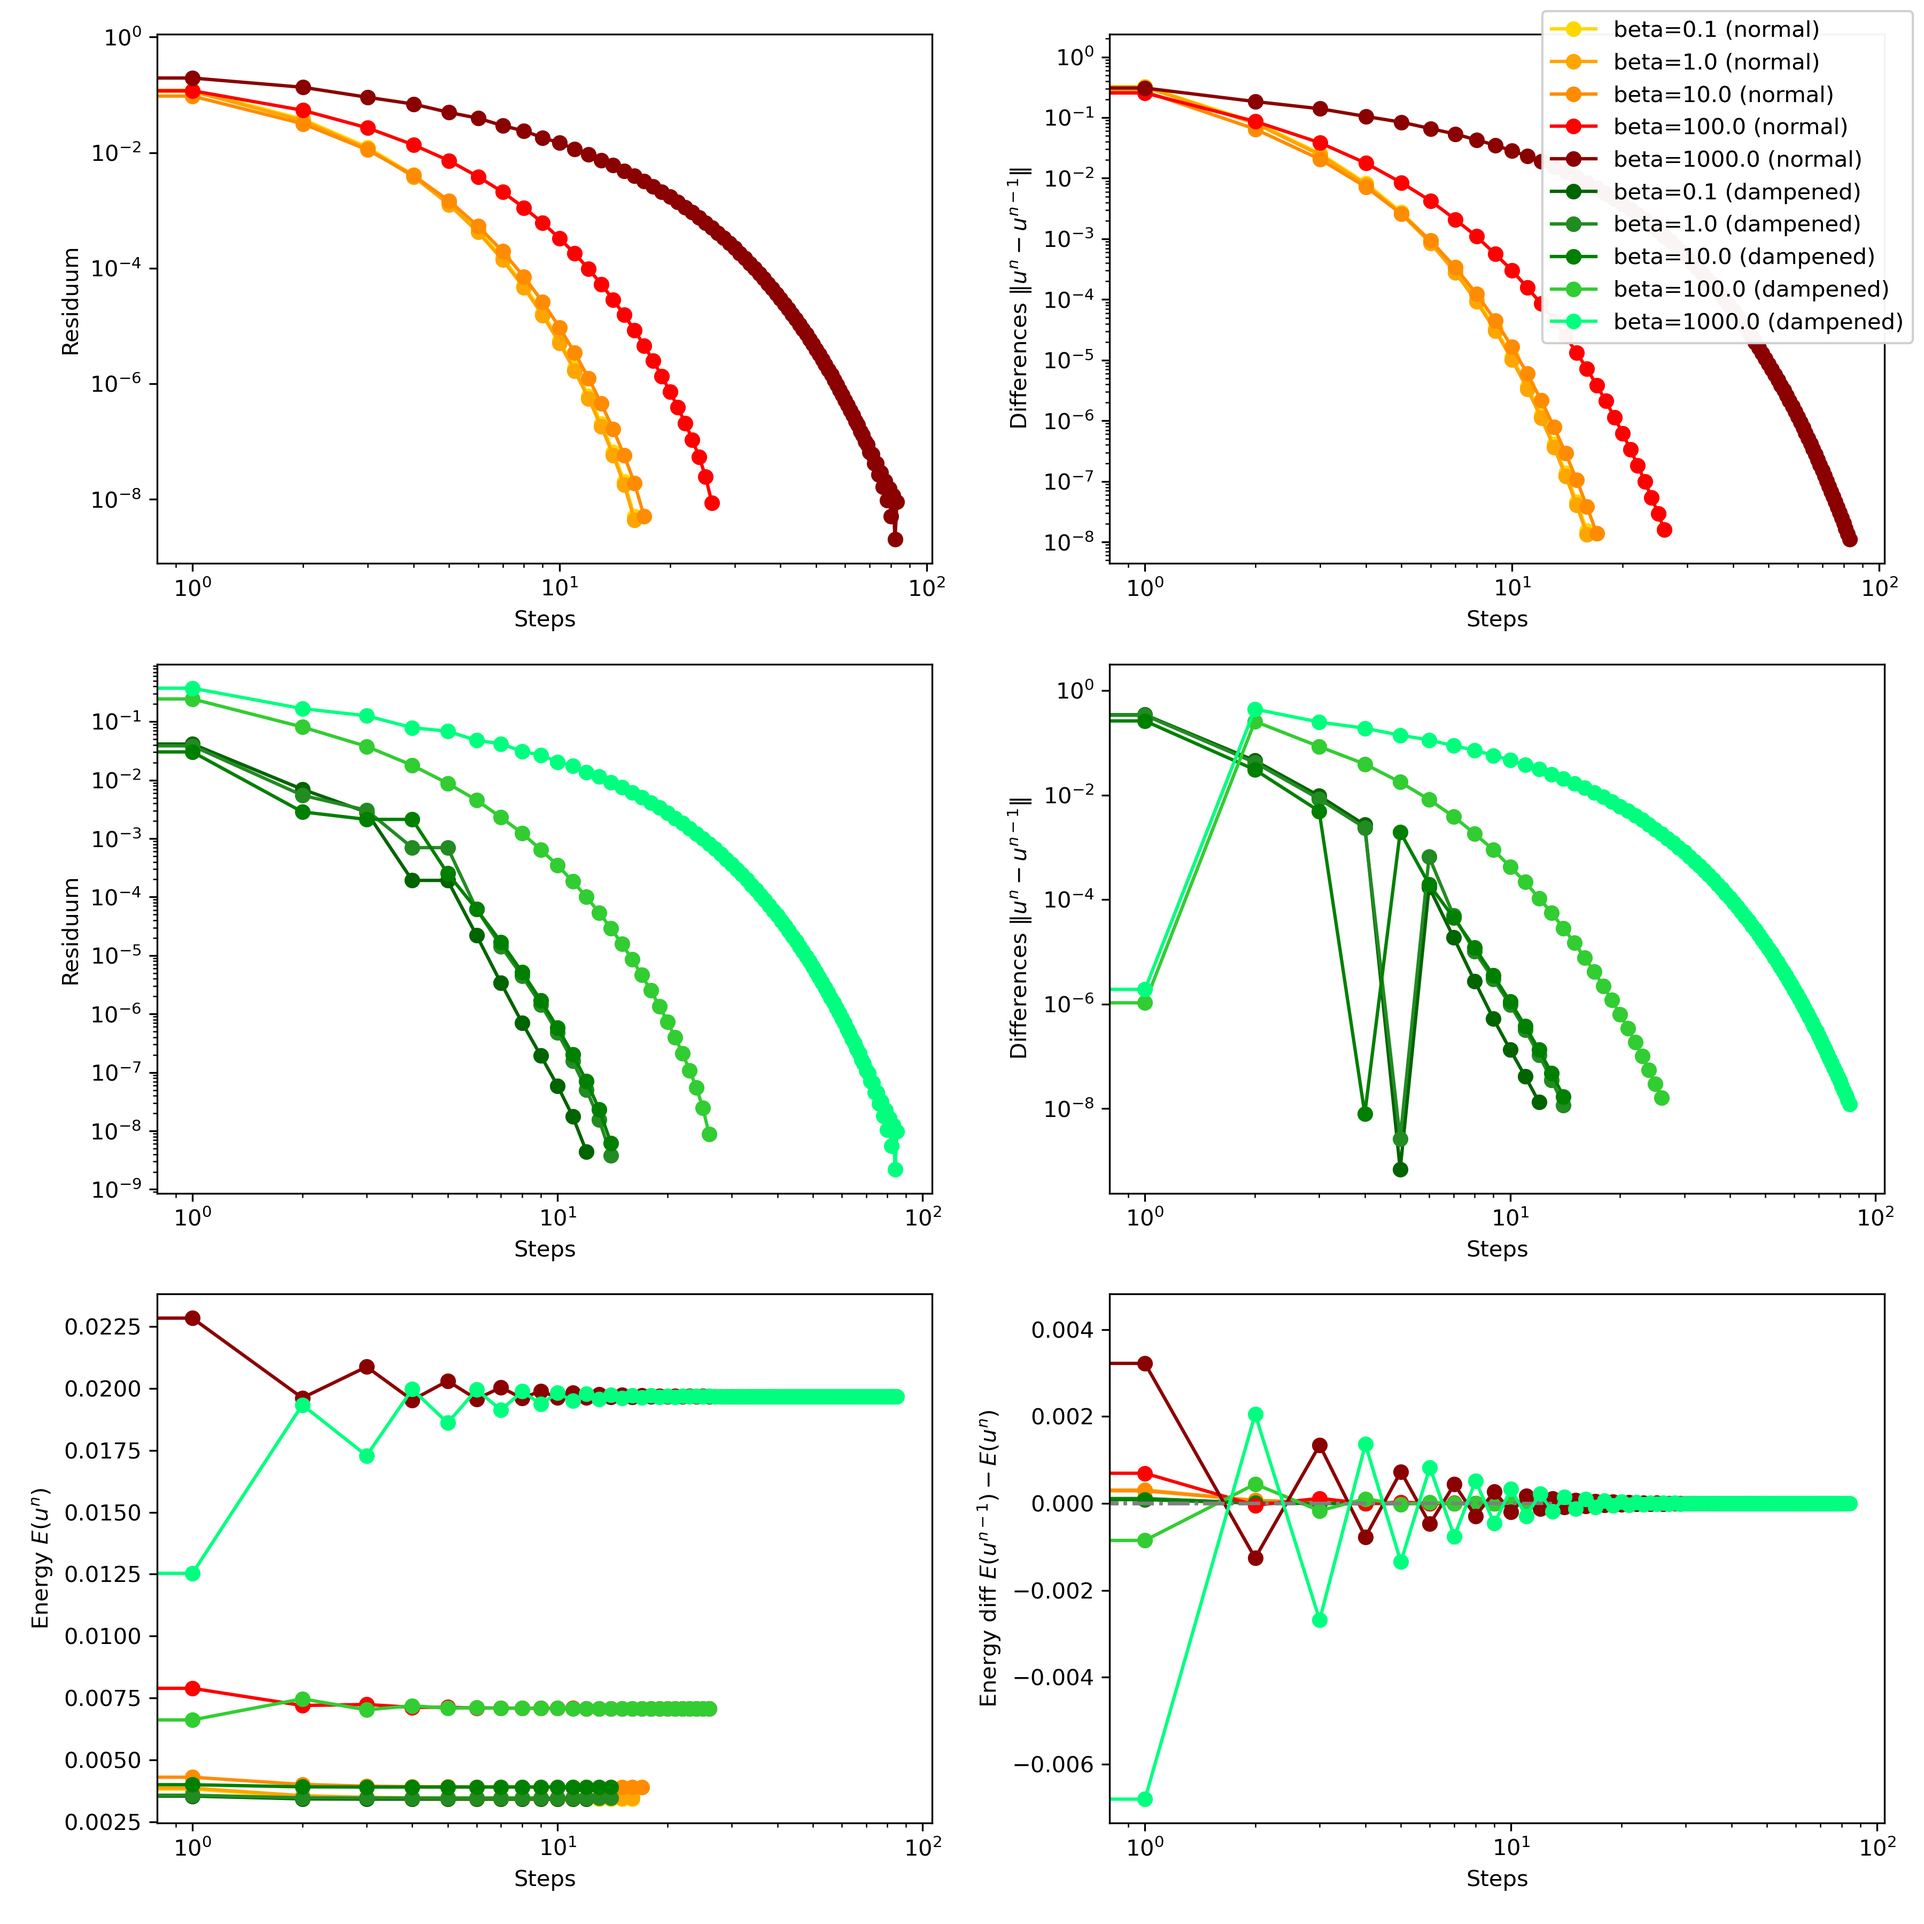
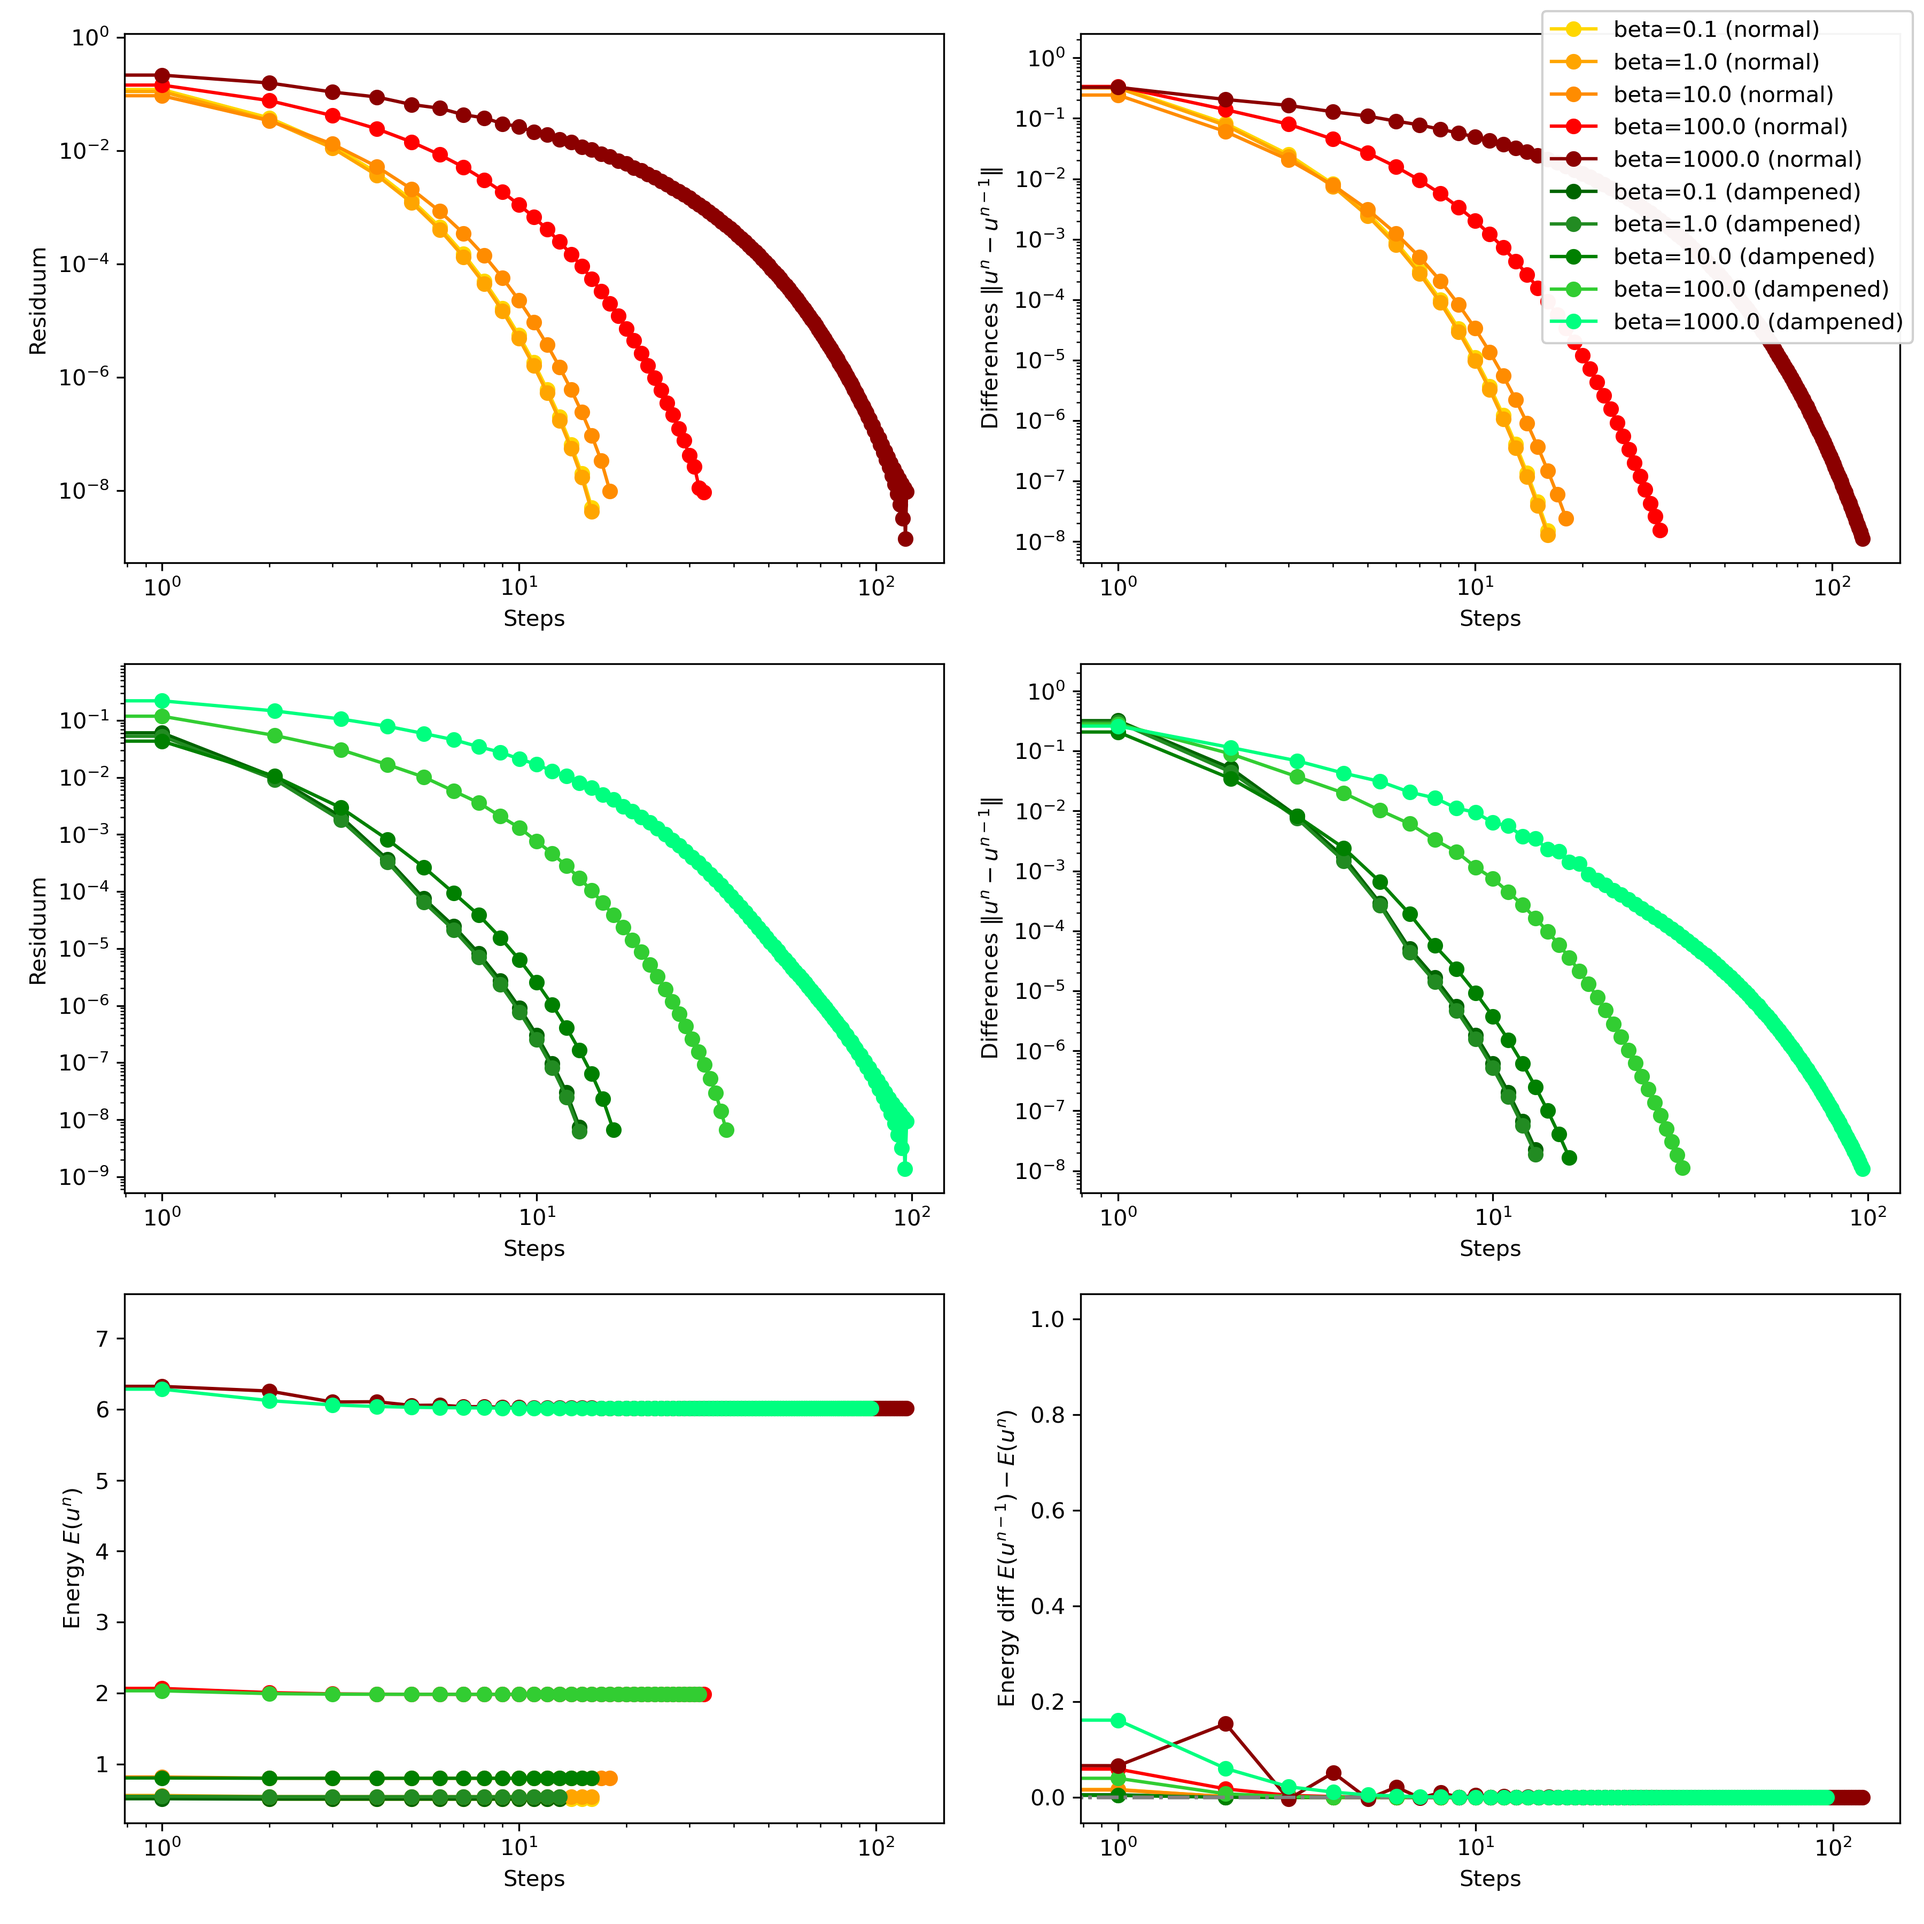
Fix calculate_energy.

diff --git a/src/gpe_algorithms.py b/src/gpe_algorithms.py
@@ -10,68 +10,46 @@ import logging
 logging.basicConfig(level=logging.WARNING)
 logger = logging.getLogger(__name__)
 
-def grad_squared(v, h, steps):
+def calculate_energy(v, L, V, beta, h_inv_sq):
     """
-    Resize vector to 2D array to calculate x and y gradient.
-    Computes |∇v|^2 (the squared gradient magnitude).
-    
-    Parameters
-    ----------
-    v : ndarray
-        Input vector (flattened 2D grid values).
-    h : float
-        Step size (grid spacing).
-    steps : int
-        Number of grid points in one dimension.
-    
-    Returns
-    -------
-    ndarray
-        Squared gradient magnitude of v on the 2D grid.
-    """
-    v = v.reshape(steps, steps)
-    dv_dx = np.gradient(v, h, axis=0)
-    dv_dy = np.gradient(v, h, axis=1)
+    Calculate the discrete Gross-Pitaevskii energy.
 
-    return dv_dx * dv_dx + dv_dy * dv_dy 
+    Discretization of the energy functional from [Hen24, Eq. (2)]
+        E(u) = ½ ∫ ( ½ |∇u|² + V u² + β/2 u⁴ ) dx
+             = ¼ ∫ |∇u|² + ½ ∫ V u² + β/4 ∫ u⁴,
+    which belongs to the GPE  -½Δu + Vu + β u³ = λu.
 
-
-def calculate_energy(v, V, beta, h, steps):
-    """
-    Calculate the energy of the 2D Gross-Pitaevskii equation.
-
-    The energy functional consists of three parts:
-    - Kinetic energy (from the gradient of v)
-    - Potential energy (from the trapping potential V)
-    - Interaction energy (from particle repulsion)
+    The vector v is Euclidean-normalized (Σ v² = 1), which corresponds to
+    the L²-normalized wavefunction u = v / h (cf. [JKM12, Sec. 5.1]).
+    With integrals replaced by h² Σ this gives
+        E(v) = ¼ vᵀ L v + ½ Σ V v² + β / (4 h²) Σ v⁴,
+    where L is the discrete (positive) Laplacian -Δ_h.
 
     Parameters
     ----------
     v : ndarray
-        Current vector (assumed as flattened 2D input).
+        Current vector (flattened 2D grid values).
+    L : scipy.sparse.spmatrix
+        Discrete Laplacian -Δ_h (see gpe_problem.get_L).
     V : ndarray
-        Potential values on the discretized grid.
+        Potential values on the grid (flattened like v).
     beta : float
         Repulsion constant (nonlinearity parameter).
-    h : float
-        Step size (assumes equidistant discretization).
-    steps : int
-        Number of grid points in one dimension.
+    h_inv_sq : float
+        Inverse squared grid spacing (1/h²).
 
     Returns
     -------
     float
         Computed energy of the system.
     """
-    grad_sq = grad_squared(v, h, steps)
-    h_sq = h * h
     v_sq = v * v
-    
-    kinetic = np.sum(grad_sq) * h_sq
-    potential = 2 * np.sum(V * v_sq) * h_sq
-    interaction = beta * np.sum(v_sq * v_sq) * h_sq
 
-    return .25 * (kinetic + potential + interaction)
+    kinetic = 0.25 * (v @ (L @ v))
+    potential = 0.5 * np.sum(V * v_sq)
+    interaction = 0.25 * beta * h_inv_sq * np.sum(v_sq * v_sq)
+
+    return kinetic + potential + interaction
 
 def inverse_iteration(A, calc_E, dim, max_steps, tol):
     """
@@ -324,6 +302,14 @@ def shifted_inverse_iteration(A, calc_E, dim, max_steps, tol):
         
         u_cur = spsolve(A_u - diags(shift * ones), u_last)
         u_cur /= norm(u_cur)
+
+        # The Rayleigh quotient is >= the smallest eigenvalue of A_u, so
+        # A_u - shift*I has a negative eigenvalue along the ground state and the
+        # solve flips the sign of the ground-state component. Since A(u) only
+        # depends on u², u and -u are equivalent: align the sign with u_last so
+        # that ||u_cur - u_last|| measures actual convergence.
+        if u_cur @ u_last < 0:
+            u_cur = -u_cur
 
         iterated_values[i] = u_cur
         energy[i] = calc_E(u_cur)

diff --git a/src/gpe_problem.py b/src/gpe_problem.py
@@ -87,9 +87,11 @@ def get_L_M(bound, steps, h_inv_sq):
     Construct the linear operator L_M for the Gross–Pitaevskii equation (GPE).
 
     The operator represents the constant part of the Hamiltonian:
-        L_M = Δ + V,
-    where Δ is the discrete Laplacian and V is the external potential
-    (here taken as the harmonic trap).
+        L_M = -½Δ + V,
+    where -Δ is the discrete (positive) Laplacian from get_L and V is the
+    external potential (here taken as the harmonic trap). The factor ½
+    follows the GPE  -½Δu + Vu + β|u|²u = λu  from [Hen24, Eq. (1)] and
+    [JKM12, Eq. (5.1)].
 
     Parameters
     ----------
@@ -103,13 +105,13 @@ def get_L_M(bound, steps, h_inv_sq):
     Returns
     -------
     scipy.sparse.csr_matrix
-        Sparse CSR matrix representing L_M = Laplacian + Potential.
+        Sparse CSR matrix representing L_M = -½ Laplacian + Potential.
     """
     # Steps = dim_sqrt since we discretize in a (steps, steps) field
     L_N = get_L(steps, h_inv_sq)
     M_V = get_M(bound, steps)
 
-    return L_N + M_V
+    return 0.5 * L_N + M_V
 
 def get_A_squiddle(v, beta, h_inv_sq):
     """
